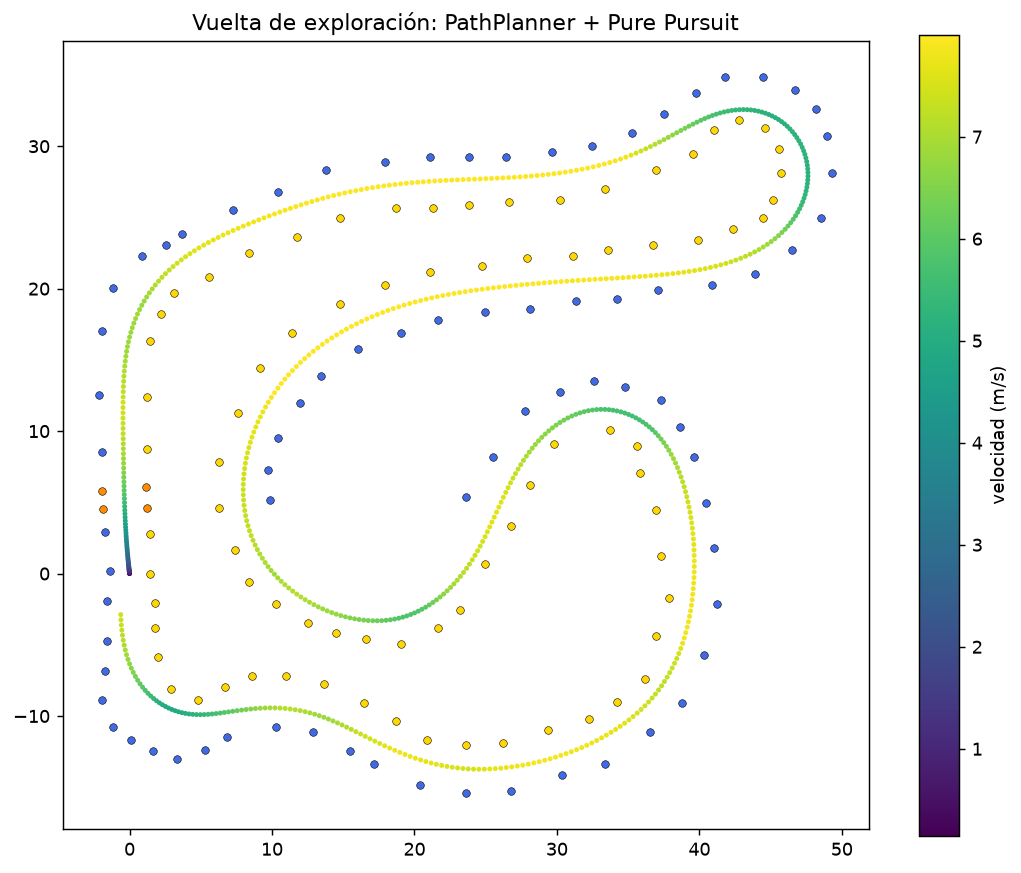
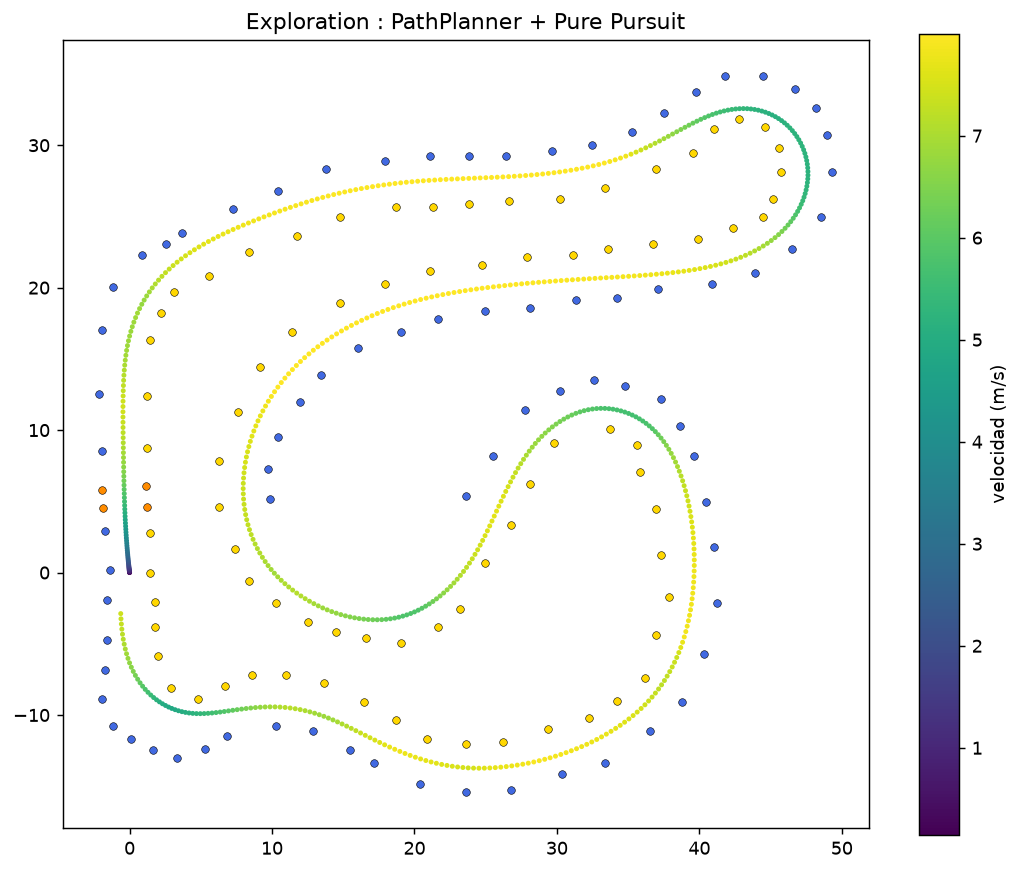
Spanish to English

diff --git a/fsd_path_planning/demo/pure_pursuit_sim.py b/fsd_path_planning/demo/pure_pursuit_sim.py
@@ -83,7 +83,7 @@ def run(track_file: Path, laps: int, sensor_range: float, noise: float, remove_c
     true_cones, start_pos, start_dir = load_ground_truth_map(track_file)
     all_true = np.vstack([c for c in true_cones if len(c)])
 
-    car = KinematicBicycle(*start_pos, np.arctan2(start_dir[1], start_dir[0]), v=0.0,
+    car = KinematicBicycle(*start_pos, np.arctan2(start_dir[1], start_dir[0]), v=0.0, # type: ignore
                            wheelbase=cfg.wheelbase)
     sensor = ConeSensor(true_cones, sensor_range, noise_std=noise, remove_color=remove_color)
     planner = PathPlanner(MissionTypes.trackdrive)
@@ -105,7 +105,7 @@ def run(track_file: Path, laps: int, sensor_range: float, noise: float, remove_c
             except Exception as e:  # the planner can fail; we continue with the last path
                 failures += 1
                 if path is None:
-                    raise RuntimeError(f"El planificador falló al inicio: {e}") from e
+                    raise RuntimeError(f"The planner failed at the beginning: {e}") from e
             planner_times.append(time.perf_counter() - t0)
             log["paths"].append(path[:, 1:3].copy())
             log["seen"].append(sensor.slam_map())
@@ -167,9 +167,9 @@ def plot(log, true_cones, clearance, out_png: Path):
         ax.scatter(*xy[tight].T, c="red", s=10, zorder=4, label="holgura < 0.6 m")
         ax.legend()
     ax.set_aspect("equal")
-    ax.set_title("Vuelta de exploración: PathPlanner + Pure Pursuit")
+    ax.set_title("Exploration : PathPlanner + Pure Pursuit")
     fig.savefig(out_png, dpi=130, bbox_inches="tight")
-    print(f"Gráfica guardada en {out_png}")
+    print(f"Graph saved in {out_png}")
 
 
 def animate(log, true_cones, out_gif: Path, every: int = 2):
@@ -209,14 +209,14 @@ def main():
     p = argparse.ArgumentParser(description=__doc__, formatter_class=argparse.RawDescriptionHelpFormatter)
     p.add_argument("--track", type=Path, default=DEMO_DIR / "fsg_19_2_laps.json")
     p.add_argument("--laps", type=int, default=1)
-    p.add_argument("--range", type=float, default=12.0, help="alcance del sensor (m)")
-    p.add_argument("--noise", type=float, default=0.0, help="ruido de posición de conos (m)")
-    p.add_argument("--no-color", action="store_true", help="probar el modo sin color")
+    p.add_argument("--range", type=float, default=12.0, help="range of the sensor (m)")
+    p.add_argument("--noise", type=float, default=0.0, help="noise of the cone positions (m)")
+    p.add_argument("--no-color", action="store_true", help="test the colorless mode")
     p.add_argument("--v-max", type=float, default=8.0)
     p.add_argument("--lookahead-gain", type=float, default=0.35)
     p.add_argument("--lookahead-min", type=float, default=3.0)
-    p.add_argument("--dt", type=float, default=0.05, help="periodo de control (s)")
-    p.add_argument("--planner-period", type=float, default=0.1, help="periodo del planificador (s)")
+    p.add_argument("--dt", type=float, default=0.05, help="period of control (s)")
+    p.add_argument("--planner-period", type=float, default=0.1, help="period of the planner (s)")
     p.add_argument("--max-time", type=float, default=150.0)
     p.add_argument("--out", type=Path, default=Path("pure_pursuit_result.png"))
     p.add_argument("--gif", action="store_true")
@@ -225,7 +225,7 @@ def main():
     cfg = PurePursuitConfig(v_max=a.v_max, lookahead_gain=a.lookahead_gain, lookahead_min=a.lookahead_min)
     results, log, true_cones, clearance = run(a.track, a.laps, a.range, a.noise, a.no_color,
                                               a.dt, a.planner_period, a.max_time, cfg)
-    print("\nResultados:")
+    print("\nResults:")
     for k, v in results.items():
         print(f"  {k:18s} {v:.2f}" if isinstance(v, float) else f"  {k:18s} {v}")
     plot(log, true_cones, clearance, a.out)

diff --git a/fsd_path_planning/control/pure_pursuit.py b/fsd_path_planning/control/pure_pursuit.py
@@ -89,13 +89,13 @@ class PurePursuitController:
         v_curve = np.sqrt(self.cfg.a_lat_max / max(k_max, 1e-3))
         return float(np.clip(v_curve, self.cfg.v_min, self.cfg.v_max))
 
-    # ---------- ley de control ----------
+    # control law
     def compute(self, path: np.ndarray, position: np.ndarray, yaw: float, speed: float, dt: float) -> ControlOutput:
         path_xy = path[:, 1:3]
         ld = self.lookahead_distance(speed)
         target = self.find_target_point(path_xy, position, ld)
 
-        # objetivo en el marco del vehículo
+        # objective in local frame
         dx, dy = target - position
         x_local = np.cos(yaw) * dx + np.sin(yaw) * dy
         y_local = -np.sin(yaw) * dx + np.cos(yaw) * dy
@@ -106,7 +106,7 @@ class PurePursuitController:
         steer = np.arctan2(2.0 * self.cfg.wheelbase * np.sin(alpha), ld_real)
         steer = float(np.clip(steer, -self.cfg.max_steer, self.cfg.max_steer))
 
-        # límite de velocidad de giro del volante
+        # limit of velocity of steering wheel|
         max_delta = self.cfg.max_steer_rate * dt
         steer = float(np.clip(steer, self._last_steer - max_delta, self._last_steer + max_delta))
         self._last_steer = steer
@@ -119,7 +119,7 @@ class PurePursuitController:
 
 
 class KinematicBicycle:
-    """Modelo cinemático de bicicleta (posición en el eje trasero)."""
+    """Classic kinematic bicycle model for simulating vehicle motion. The vehicle's position is assumed to be at the rear axle."""
 
     def __init__(self, x: float, y: float, yaw: float, v: float = 0.0, wheelbase: float = 1.53):
         self.x, self.y, self.yaw, self.v, self.L = x, y, yaw, v, wheelbase
